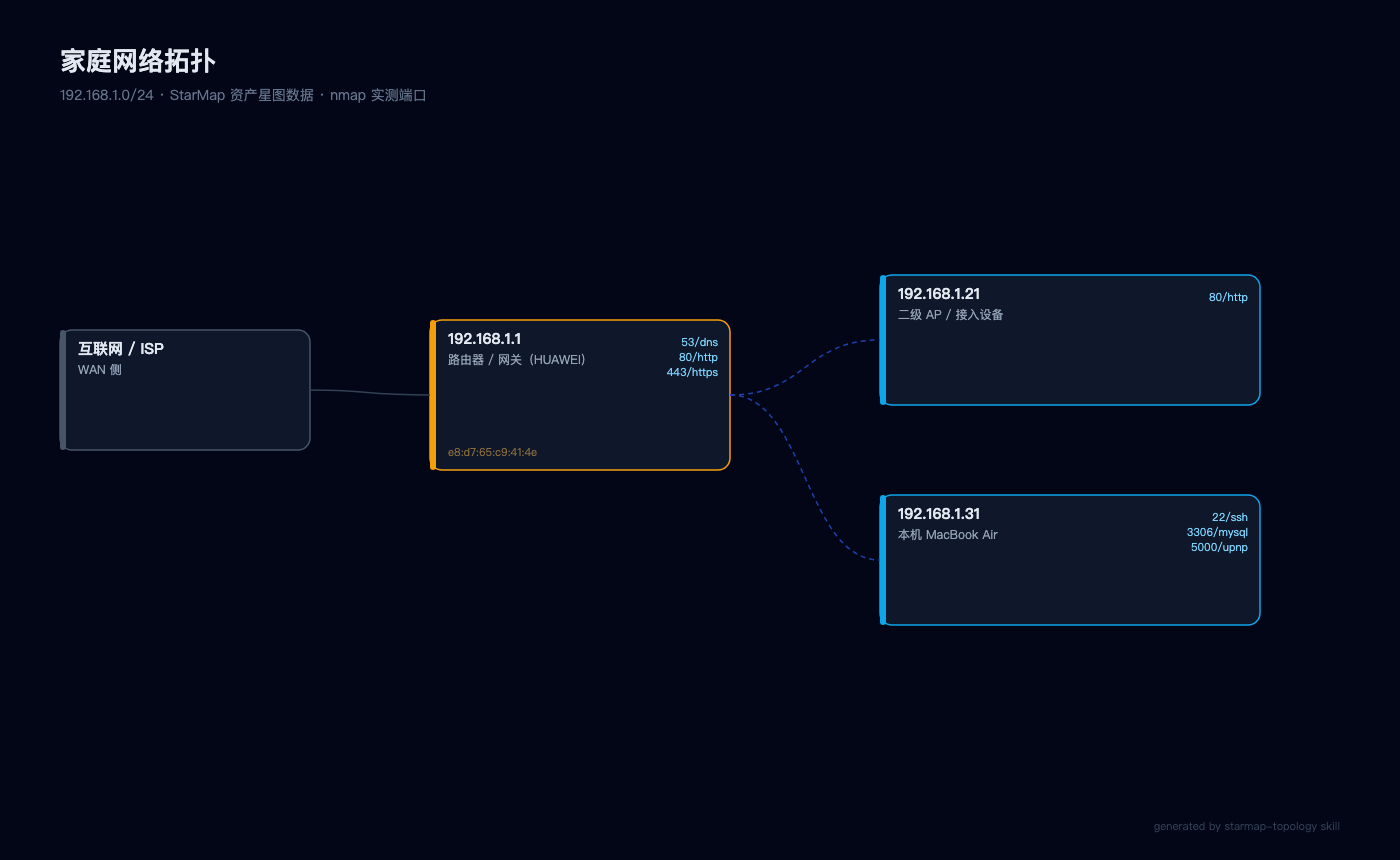
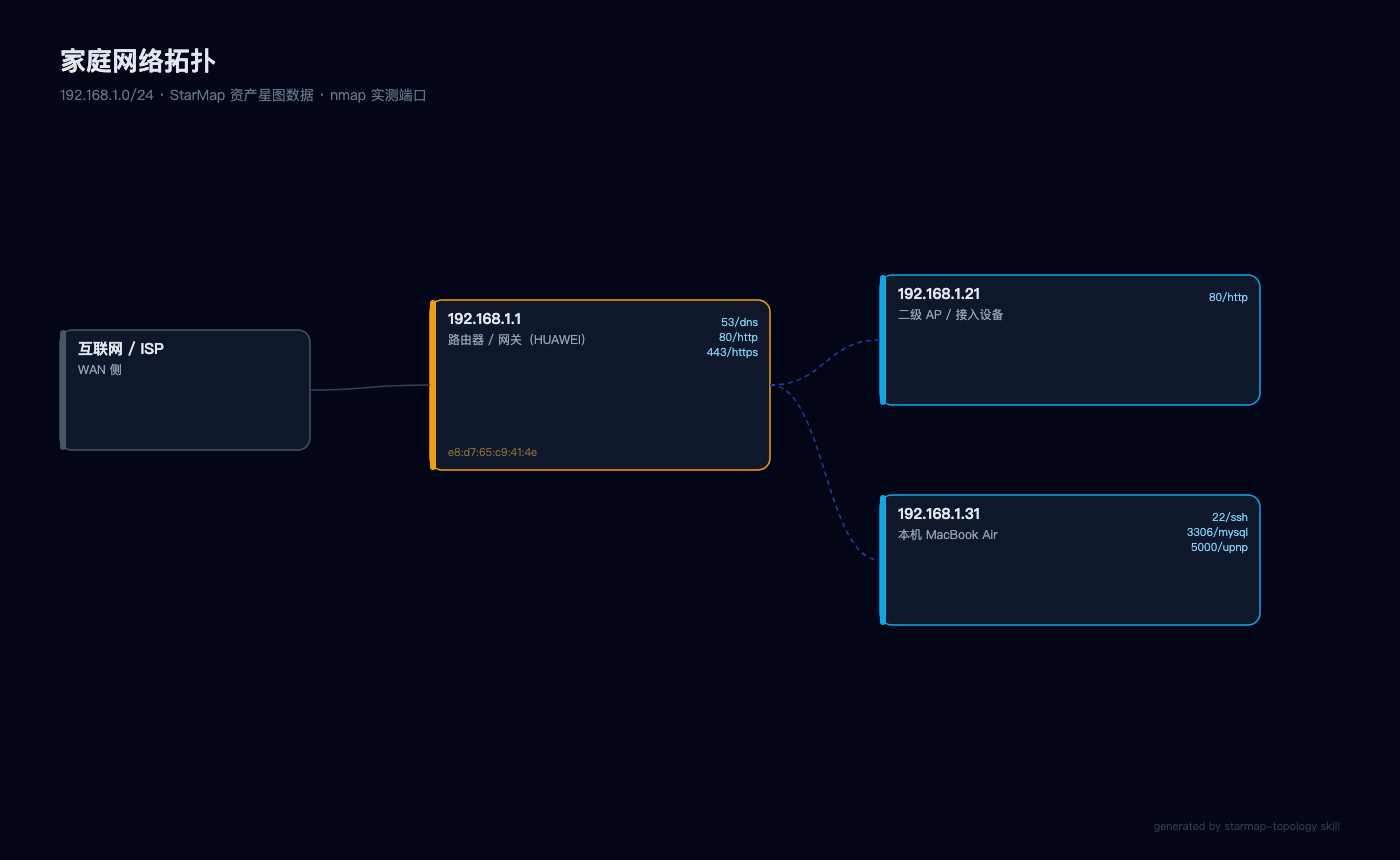
fix(render): 标题参数化 + 网关角色换行，避免文字压到端口列

diff --git a/scripts/render_topology.py b/scripts/render_topology.py
@@ -34,19 +34,28 @@ def main():
     out = sys.argv[2]
     W, H = 1400, 860
     gw = data["gateway"]; hosts = data.get("hosts", [])
+    gw_role = str(gw.get("role","网关"))
+    if len(gw_role) > 22:
+        gw_role = gw_role.replace("（", "\n")
     # 布局：接入点 -> 网关 -> 终端
     net_x, net_y, net_w, net_h = 60, 330, 250, 120
-    gw_x, gw_y, gw_w, gw_h = 430, 320, 300, 150
+    gw_x, gw_y, gw_w, gw_h = 430, 300, 340, 170
     hx0, hy0, hw, hh, gap = 880, 150, 380, 130, 90
     parts = []
     parts.append(f'<rect width="{W}" height="{H}" fill="#020617"/>')
-    parts.append(f'<text x="60" y="70" font-size="26" font-weight="700" fill="#e2e8f0">家庭网络拓扑</text>')
+    title = data.get("title") or "网络拓扑"
+    parts.append(f'<text x="60" y="70" font-size="26" font-weight="700" fill="#e2e8f0">{esc(title)}</text>')
     parts.append(f'<text x="60" y="100" font-size="14" fill="#64748b">{esc(data.get("network",""))} · StarMap 资产星图数据 · nmap 实测端口</text>')
     # 云/互联网
     parts.append(node(net_x, net_y, net_w, net_h, "互联网 / ISP", "WAN 侧", [], "#64748b", "#475569"))
     # 网关
     ports = gw.get("ports", [])
-    parts.append(node(gw_x, gw_y, gw_w, gw_h, gw["ip"], gw.get("role","网关"), ports, "#f59e0b", "#f59e0b"))
+    role_lines = gw_role.split("\n")
+    if len(role_lines) == 2:
+        parts.append(node(gw_x, gw_y, gw_w, gw_h, gw["ip"], role_lines[0], ports, "#f59e0b", "#f59e0b"))
+        parts.append(f'<text x="{gw_x+18}" y="{gw_y+64}" font-size="12" fill="#94a3b8">{esc(role_lines[1])}</text>')
+    else:
+        parts.append(node(gw_x, gw_y, gw_w, gw_h, gw["ip"], gw_role, ports, "#f59e0b", "#f59e0b"))
     if gw.get("mac"):
         parts.append(f'<text x="{gw_x+18}" y="{gw_y+gw_h-14}" font-size="11" fill="#8a6d3b">{esc(gw["mac"])}</text>')
     # 主机
